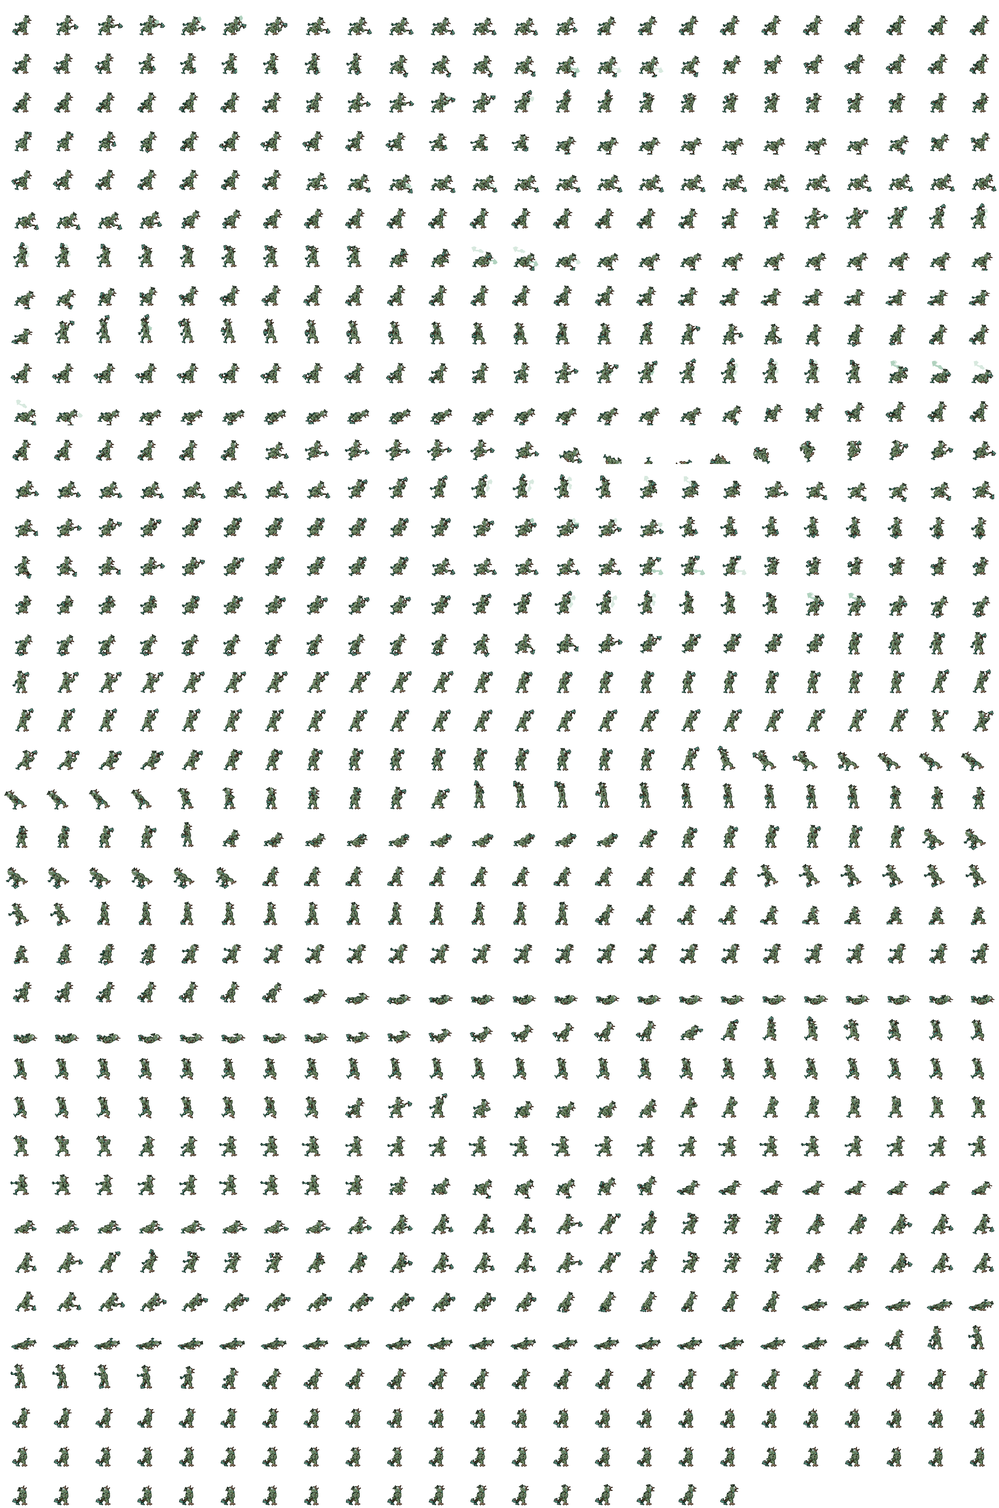
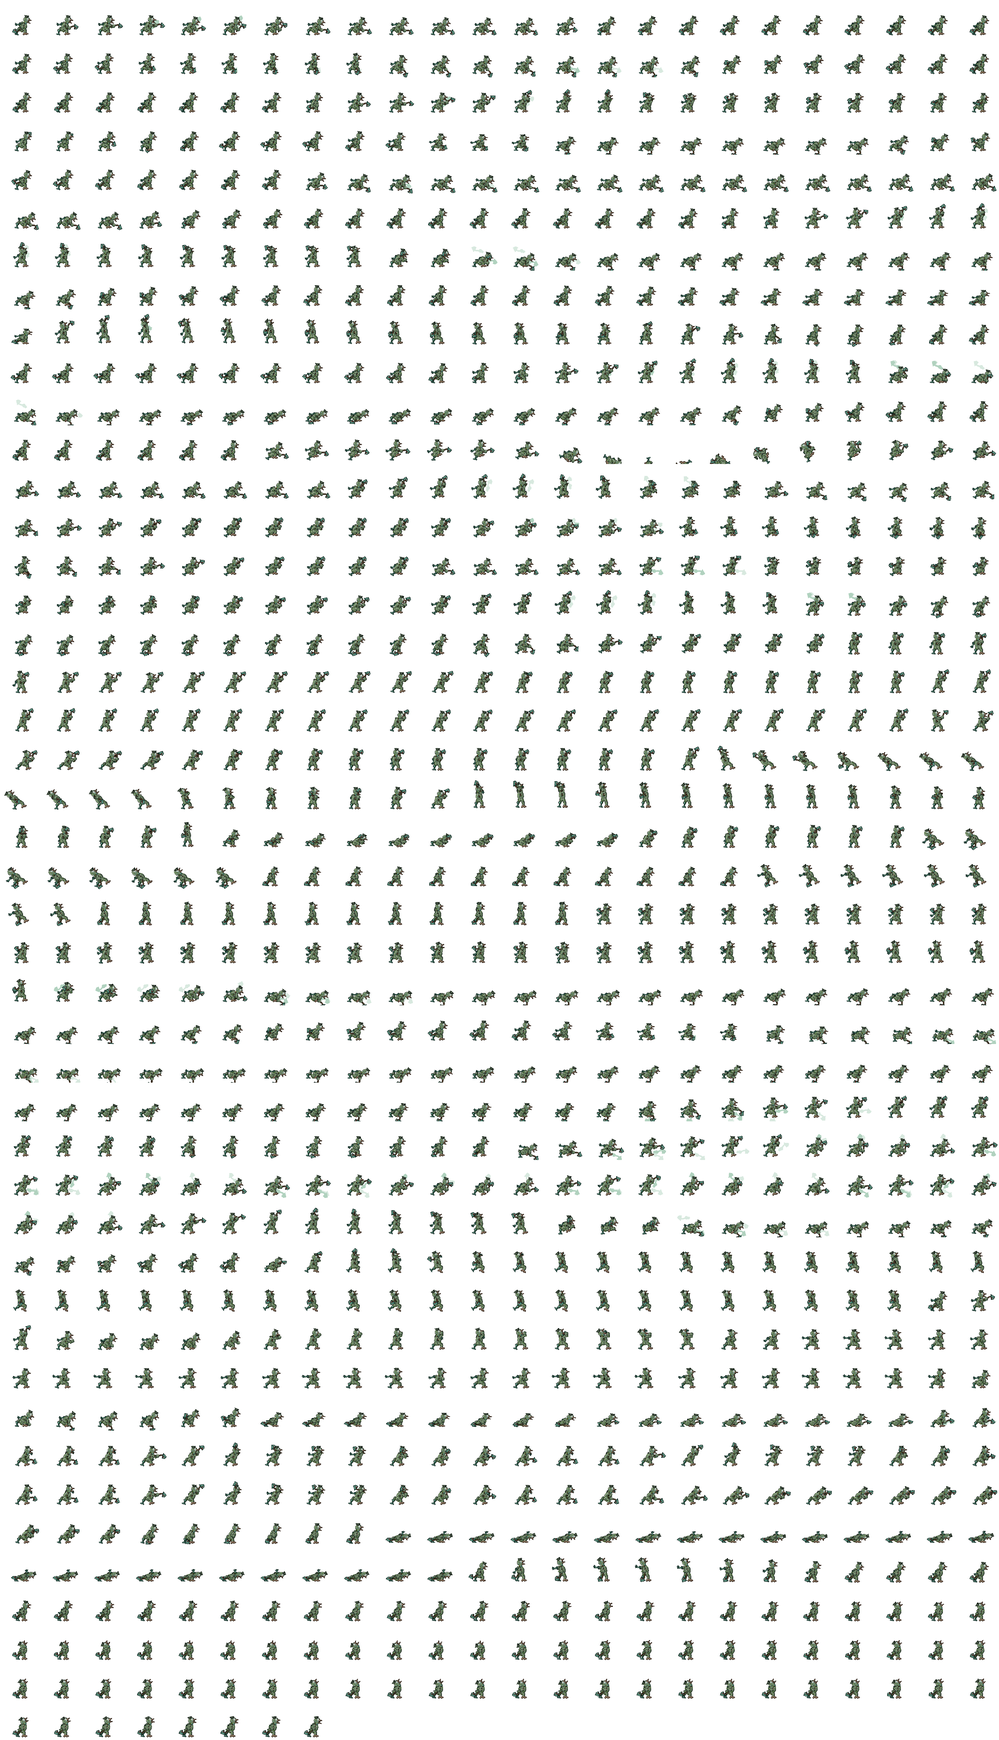
SEEN's side special is a LUNGE (miss: axe stuck, long end lag; hit: a flurry of axe chops) and its neutral special is a charged HEAVY SWING it can slowly walk with
Claude-Session: https://claude.ai/code/session_01QrPMowW61BtpNneRMoKnVz

Changed region(s): [[0.0, 0.0, 1.0, 1.0]]

diff --git a/src/fighters/fighterLastSeen.js b/src/fighters/fighterLastSeen.js
@@ -2,6 +2,7 @@
 // two Limits (I SEE IT TOO, DO NOT APPROACH) and SEEN's look. Mixed into the Fighter class (Fighter.js) - `this` is
 // the fighter. Tuning: lastSeen.js.
 import { sfx } from '../audio/sfx.js';
+import { newAttackId } from './attackIds.js';
 import { skinSheets } from './skins.js';
 import { drawPoster } from './entities.js';
 
@@ -150,6 +151,59 @@ export class FighterLastSeen {
     if (this.anim % 47 === 0) m.particles.push({ shape: 'pixel2', x: this.x + (R() - 0.5) * 20, y: this.y - 30 - R() * 20, vx: (R() - 0.5), vy: 0.4, life: 40, color: S.tuft || 0xd8c070, grav: 0.03, drag: 0.98 });   // a tuft of fur falling off
     if (Math.abs(this.vx) > 2.5 && this.anim % 2 === 0) m.particles.push({ shape: 'smoke', x: this.x - Math.sign(this.vx) * 6, y: this.y - 14 - R() * 20, vx: 0, vy: 0, life: 16, maxLife: 16, r: 4, color: S.smoke || 0x141216, grav: 0 });
   }
+  // ---- HEAVY SWING (SEEN's neutral special): charge the axe up behind its head - it can shuffle along, very slowly -
+  // then let go for one huge chop; the longer the charge, the harder and further it hits (tuning: lastSeen.js)
+  startAxeCharge() { this.setState('axecharge'); this.axeCharged = 0; sfx('whoosh', 0.5, 0.5); }
+  st_axecharge(c) {
+    const nb = this.def.moves.neutralB, C = nb.axeCharge, m = this.match, R = Math.random;
+    this.axeCharged = Math.min(C.max, this.axeCharged + 1);
+    const k = this.axeCharged / C.max, full = k >= 1;
+    // (on the ground it shuffles along slowly: Fighter.physics); in the air it drifts a little and hangs
+    if (!this.grounded) { this.vx += c.x * 0.08; this.vx = Math.max(-C.walk * 1.5, Math.min(C.walk * 1.5, this.vx)); this.vy = Math.min(this.vy, 2); }
+    if (this.axeCharged === C.max && this.t === C.max) { sfx('limitready', 0.6, 0.8); sfx('clang', 0.5, 0.5); m.shake(3, 6); }
+    const tx = this.x + this.facing * C.tip[0], ty = this.y + C.tip[1];
+    if (R() < 0.2 + k * 0.6) m.particles.push({ shape: 'drop', x: tx + (R() - 0.5) * 8, y: ty + 4, vx: (R() - 0.5) * 0.6, vy: 0.5, life: 24, color: R() < 0.5 ? 0xb01010 : 0x7a0808, grav: 0.2 });   // blood running off the blade
+    if (full && this.t % 4 === 0) m.particles.push({ shape: 'pixel2', x: tx + (R() - 0.5) * 16, y: ty + (R() - 0.5) * 16, vx: 0, vy: -0.4, life: 12, color: R() < 0.5 ? 0xff3a2a : 0xffffff, grav: 0 });
+    if (this.t % (full ? 8 : 18) === 0) sfx('buzz', 0.12 + 0.2 * k, 0.6 + k * 0.6);
+    const release = (!c.held('special') && this.t > 2) || this.t >= C.hold || (this.isCpu && this.t >= (this.cpuChargeTarget || 40));
+    if (!release) return;
+    const lerp = (a, b) => (b === undefined ? a : a + (b - a) * k);
+    this.move = { ...nb, hits: nb.hits.map((h) => ({ ...h, dmg: Math.round(lerp(h.dmg, h.maxDmg)), base: lerp(h.base, h.maxBase), growth: lerp(h.growth, h.maxGrowth), full })) };
+    this.moveName = 'neutralB'; this.attackId = newAttackId(); this.hitList = new Set();
+    this.setState('attack'); this.vx *= 0.3;
+    sfx('whoosh', 0.9, 0.6 - 0.15 * k); if (full) sfx('bighit', 0.4, 0.5);
+    if (full) m.popText(this, 'FULL SWING', '#ff3a2a');
+  }
+  // the glow on the axe head while it charges
+  drawAxeCharge(g) {
+    const C = this.def.moves.neutralB.axeCharge, k = this.axeCharged / C.max, full = k >= 1;
+    const tx = this.x + this.facing * C.tip[0], ty = this.y + C.tip[1], pulse = full && this.anim % 6 < 3 ? 3 : 0;
+    g.fillStyle(0xff1a1a, 0.15 + 0.25 * k); g.fillCircle(tx, ty, 4 + 9 * k + pulse);
+    g.fillStyle(0xffffff, 0.5 + 0.4 * k); g.fillCircle(tx, ty, 1 + 2 * k);
+  }
+
+  // ---- LUNGE (SEEN's side special) hit someone: the FLURRY - it holds them in front of it and chops, and chops,
+  // and one last big swing sends them flying
+  startFlurry(t) {
+    if (this.state === 'flurry') return;
+    this.flurryOn = t; this.setState('flurry'); this.vx = this.vy = this.lx = this.ly = 0;
+    sfx('bighit', 0.5, 0.7); this.match.shake(4, 6);
+  }
+  st_flurry() {
+    const F = this.def.moves.sideB.flurry, t = this.flurryOn, m = this.match;
+    if (!F || !t || !t.alive || t.state === 'respawn') { this.flurryOn = null; this.setState(this.grounded ? 'idle' : 'air'); return; }
+    this.vx = 0; this.vy = this.grounded ? 0 : Math.min(this.vy + 0.1, 1);
+    if (this.t < F.finishAt) {                                        // hold them right in front of it
+      t.x = this.x + this.facing * F.gap; t.y = this.y; t.vx = t.vy = t.lx = t.ly = 0;
+      if (t.state !== 'hitstun' && t.state !== 'shield') t.setState('hitstun');   // no wriggling out between the chops
+      t.hitstun = Math.max(t.hitstun || 0, 8);
+    }
+    const hit = (h, id) => m.applyHit(t, { h, owner: this, facing: this.facing, id: 'flurry' + this.slot + ':' + id + ':' + this.age, pillar: true }, this.x);
+    if (F.chops.includes(this.t)) { hit(F.chop, this.t); sfx('slash', 0.5, 0.8 + 0.05 * F.chops.indexOf(this.t)); m.shake(2, 3); }
+    if (this.t === F.finishAt) { hit(F.finish, 'fin'); sfx('bighit', 0.8, 0.6); m.shake(8, 8); this.flurryOn = null; }
+    if (this.t >= F.frames) { this.flurryOn = null; this.setState(this.grounded ? 'idle' : 'air'); }
+  }
+
   // ---- SCREAM (SEEN's down special, tuning in lastSeen.js): the axe goes into the floor, the jaw is wrenched
   // open, and it screams - blood spraying out, everyone near it SHAKEN; finish the scream and it's in a FRENZY
   screamStep(S) {
@@ -208,6 +262,7 @@ export class FighterLastSeen {
   }
   drawSeen(g, spr) {
     this.drawThrownAxe(spr);
+    if (this.state === 'axecharge') this.drawAxeCharge(g);
     if (this.frenzy > 0) {                                             // FRENZY: a red pulse round it, blood steaming off it
       const pulse = 0.12 + 0.08 * Math.sin(this.anim * 0.3), mid = this.y - this.def.body.h * 0.5;
       this.fxBack.fillStyle(0xff1a1a, pulse); this.fxBack.fillEllipse(this.x, mid, this.def.body.w * 2.6, this.def.body.h * 1.5);

diff --git a/src/fighters/lastSeen.js b/src/fighters/lastSeen.js
@@ -123,15 +123,28 @@ export const SEEN = {
   moves: {
     ...DEFAULT_GRAB,
     ...Object.fromEntries(NORMALS.map((n) => [n, wrongMove(LAST_SEEN.moves[n])])),
-    // WAIL (neutral): a scream that hits everything around her
-    neutralB: { frames: 40, fx: 'up', hits: [{ from: 14, to: 20, box: [-62, -84, 124, 90], dmg: 14, angle: 60, base: 4.6, growth: 5.2 }] },
-    // SKITTER (side): a fast, low crawl that rakes them over and over - once per jump
-    sideB: { frames: 34, landLag: 8, multi: true, dive: { from: 5, to: 22, vx: 9.4, vy: -0.6 }, hits: [
-      { from: 6, to: 7, box: [-4, -30, 46, 30], dmg: 3, angle: 30, base: 1.6, growth: 0, stun: 10 },
-      { from: 11, to: 12, box: [-4, -30, 46, 30], dmg: 3, angle: 30, base: 1.6, growth: 0, stun: 10 },
-      { from: 16, to: 17, box: [-4, -30, 46, 30], dmg: 3, angle: 30, base: 1.6, growth: 0, stun: 10 },
-      { from: 21, to: 24, box: [-4, -34, 50, 34], dmg: 8, angle: 40, base: 4.2, growth: 5.0 },
+    // HEAVY SWING (neutral): hold special to haul the axe up behind its head and charge it - it can still shuffle
+    // along while it charges, very slowly - then let go for one enormous chop. Damage and launch grow with the charge.
+    neutralB: { frames: 46, axeCharge: {
+      max: 120,                                       // frames to a full charge (2 s); it swings by itself at 'hold'
+      hold: 210,
+      walk: 0.9,                                      // walking speed while charging (it normally walks at 3.6)
+      tip: [-10, -76],                                // where the axe head is in the wind-up (for the glow)
+    }, hits: [
+      // dmg/base/growth at no charge -> maxDmg/maxBase/maxGrowth at full
+      { from: 15, to: 20, box: [-6, -74, 66, 76], dmg: 9, maxDmg: 26, angle: 48, base: 3.0, maxBase: 7.6, growth: 4.0, maxGrowth: 7.0 },
     ] },
+    // LUNGE (side): a lunging chop. MISS and the axe buries itself in the floor - it has to wrench it back out (a lot
+    // of end lag). HIT and it's a FLURRY: five quick chops and one big swing that sends them flying (3 x 5 + 10 = 25%).
+    // (on the ground it lunges along the floor; in the air it just swings - and landing mid-move costs 40 frames)
+    sideB: { frames: 72, landLag: 40, slide: { from: 6, to: 15, vx: 8.2, dust: 0x5a5248 }, hits: [
+      { from: 9, to: 15, box: [0, -44, 56, 44], dmg: 4, angle: 30, base: 2.0, growth: 0, stun: 30 },
+    ], flurry: {
+      frames: 66,                                     // the whole flurry (its animation)
+      chops: [10, 17, 24, 31, 38], chop: { dmg: 3, angle: 60, base: 1.0, growth: 0, stun: 22 },
+      finishAt: 51, finish: { dmg: 10, angle: 38, base: 5.6, growth: 6.4 },
+      gap: 26,                                        // how far in front of it they're held
+    } },
     // CLIMB (up): claws its way up the air itself
     upb: { frames: 40, riseAt: 6, riseV: -15.5, pushX: 2.0, drift: 3.8, hits: [
       { from: 6, to: 8, box: [-22, -70, 44, 40], dmg: 3, angle: 85, base: 1.8, growth: 0, stun: 10 },

diff --git a/src/ai/cpu.js b/src/ai/cpu.js
@@ -22,6 +22,7 @@ export class CpuController extends Controller {
     if (me.state === 'holding') return this.throwPlan(me);
     if (me.state === 'respawn') { if (Math.random() < 0.03) this.x = Math.random() < 0.5 ? -1 : 1; return; }
     if (me.state === 'charge' || me.state === 'swingcharge') { this.cur.special = true; return; }
+    if (me.state === 'axecharge') { this.cur.special = true; const t = this.pickTarget(me); this.x = t && Math.abs(t.x - me.x) > 50 ? Math.sign(t.x - me.x) : 0; return; }   // SEEN: lumbers toward them while it charges
     this.holdSpecial = false;
     if (me.possessed > 0) { if (Math.random() < this.lv.mash) this.tap(['attack', 'jump', 'special', 'shield'][Math.floor(Math.random() * 4)]); return; }
     if (this.dodgeLimit(me)) return;
@@ -89,7 +90,7 @@ export class CpuController extends Controller {
       this.y = 1; this.tap('special'); return;
     }
     // Lacy's Grand Slam: a charged home-run swing up close
-    if (M.neutralB && M.neutralB.charge && adx < 64 && Math.abs(dy) < 40 && me.grounded && Math.random() < 0.06 * L.aggression) {
+    if (M.neutralB && (M.neutralB.charge || M.neutralB.axeCharge) && adx < (M.neutralB.axeCharge ? 120 : 64) && Math.abs(dy) < 40 && me.grounded && Math.random() < 0.06 * L.aggression) {
       if (me.facing !== Math.sign(dx)) { this.x = Math.sign(dx); return; }
       this.tap('special'); this.holdSpecial = true;
       me.cpuChargeTarget = 8 + Math.floor(Math.random() * (Math.random() < 0.2 ? 170 : 50));   // usually quick, sometimes a big wind-up
@@ -118,7 +119,7 @@ export class CpuController extends Controller {
         me.cpuChargeTarget = 10 + Math.floor(Math.random() * (adx > 260 ? 74 : 30));
       } else if (M.sideB && !(M.sideB.hits || []).some((h) => h.possess) && (Math.random() < 0.35 || me.facing !== Math.sign(dx))) {
         this.x = Math.sign(dx); this.tap('special');               // Drifting Soul
-      } else if (!(M.neutralB && M.neutralB.charge)) {
+      } else if (!(M.neutralB && (M.neutralB.charge || M.neutralB.axeCharge))) {
         this.tap('special');                                       // Wake: Void Orb
       }
       return;

diff --git a/src/fighters/Fighter.js b/src/fighters/Fighter.js
@@ -233,7 +233,7 @@ export class Fighter {
       if (c.down) { if (M.summon) this.startSummon(); else if (M.counter) this.startCounter(); else if (M.downB && M.downB.door && this.wrongDoor()) this.startDoorWalk(); else if (M.downB) this.startAttack('downB'); return true; }
       if (c.up) { if (this.usedUpB) return false; this.startUpB(c); return true; }
       if (Math.abs(c.x) > 0.5) { this.facing = Math.sign(c.x); if (M.sideB && M.sideB.sword) { if (!this.swordOut) this.startSwordThrow(); return !this.swordOut || this.state === 'swordthrow'; } if (M.sideB) { if (((M.sideB.dive || M.sideB.noclip) && this.usedDive) || (M.sideB.fish && this.fishOut) || (M.sideB.mic && this.micOut)) return false; if (this.wowMode) this.startModeSide(); else this.startAttack('sideB'); return true; } }
-      if (M.fireball) this.startCharge(); else if (M.neutralB && M.neutralB.charge) this.startSwingCharge(); else if (M.neutralB) this.startAttack('neutralB');
+      if (M.fireball) this.startCharge(); else if (M.neutralB && M.neutralB.charge) this.startSwingCharge(); else if (M.neutralB && M.neutralB.axeCharge) this.startAxeCharge(); else if (M.neutralB) this.startAttack('neutralB');
       return true;
     }
     if (this.buffer.grab && ground) { this.buffer.grab = 0; this.startAttack('grab'); return true; }
@@ -411,11 +411,11 @@ export class Fighter {
     if (this.dropTimer > 0) this.dropTimer--;
 
     const canSteerAir = ['air', 'helpless', 'attack', 'charge', 'summon'].includes(s) && !this.grounded;
-    const groundMove = this.grounded && (s === 'run');
+    const groundMove = this.grounded && (s === 'run' || s === 'axecharge');   // (SEEN can shuffle along, slowly, while it charges)
 
     if (this.grounded) {
       if (groundMove) {
-        const target = c.x * d.walkSpeed * this.speedMult;
+        const target = c.x * (s === 'axecharge' ? d.moves.neutralB.axeCharge.walk : d.walkSpeed) * this.speedMult;
         this.vx += Math.sign(target - this.vx) * Math.min(Math.abs(target - this.vx), d.runAccel);
       } else if (s !== 'roll') {
         this.vx -= Math.sign(this.vx) * Math.min(Math.abs(this.vx), d.groundFriction);

diff --git a/src/scenes/MatchScene.js b/src/scenes/MatchScene.js
@@ -314,7 +314,8 @@ export class MatchScene extends Phaser.Scene {
     const dmg = Math.max(1, Math.round((h.dmg || 0) * (owner ? owner.dmgMult : 1) * t.dmgTakenMult * (beat ? beat.dmg : 1)));
     if (beat) owner.beatLanded(t, hb);
     if (owner && !hb.projectile && owner.state === 'attack' && owner.move && owner.move.dive && owner.move.dive.bounce) owner.diveBounce = true;
-    if (owner && !hb.projectile && owner.state === 'attack' && owner.move && owner.move.cling && t.alive) owner.startCling(t);   // LAST SEEN: she clings on   // NU's Stage Dive: bounce off them
+    if (owner && !hb.projectile && owner.state === 'attack' && owner.move && owner.move.cling && t.alive) owner.startCling(t);
+    if (owner && !hb.projectile && owner.state === 'attack' && owner.move && owner.move.flurry && t.alive) owner.startFlurry(t);   // SEEN's LUNGE hit: the flurry   // LAST SEEN: she clings on   // NU's Stage Dive: bounce off them
     let kbPct;
     if (this.mode === 'stamina') { t.hp -= dmg; kbPct = 40 + 50 * (1 - Math.max(0, t.hp) / t.maxHp); }
     else { t.percent = Math.min(999, t.percent + dmg); kbPct = t.percent; }

diff --git a/src/fighters/roster.js b/src/fighters/roster.js
@@ -37,7 +37,7 @@ export const TEST_ROSTER = [
   { id: 'last-seen', name: 'LAST SEEN', def: LAST_SEEN, tag: 'PROTOTYPE 04',
     notes: 'SHE WENT MISSING. SOMETHING CAME BACK.\nSTARTS FRAIL: LIGHT, WEAK, EASY TO LAUNCH.\n\n'
       + 'SIGHTINGS (THE EYES OVER HER HEAD) FILL AS SHE\nDEALS AND TAKES DAMAGE. ALL OPEN: SHE TURNS\nINTO SEEN UNTIL KO - HEAVY, FAST, BRUTAL.\n\n'
-      + 'K      FLYER / WAIL\nSIDE K PLEASE HELP ME (CLING ON) / SKITTER\nUP K   JUMP / CLIMB\nDOWN K HIDE / DRAG\n\n'
+      + 'K      FLYER / HEAVY SWING (HOLD, CHARGE)\nSIDE K PLEASE HELP ME (CLING ON) / LUNGE (FLURRY)\nUP K   JUMP / CLIMB\nDOWN K HIDE / SCREAM\n\n'
       + 'LIMIT  I SEE IT TOO - TURN NOW\n       DO NOT APPROACH (AS SEEN) - 55%' },
 ];
 

diff --git a/src/fighters/lsWrongMoves.js b/src/fighters/lsWrongMoves.js
@@ -25,11 +25,14 @@ export const LS_WRONG_MOVES = {
    "shield": [534, 12, 2, 1],
    "grabbed": [546, 8, 2, 1],
    "ledge": [554, 12, 2, 1],
-   "neutralB": [566, 40, 1],
-   "sideB": [606, 34, 1],
-   "upb": [640, 40, 1],
-   "downB": [680, 56, 2],
-   "limit": [736, 75, 2],
-   "turning": [811, 35, 2],
-   "taunt": [846, 84, 1],
+   "axecharge": [566, 12, 2, 1],
+   "axecharge_walk": [578, 12, 4, 1],
+   "neutralB": [590, 46, 1],
+   "sideB": [636, 72, 1],
+   "flurry": [708, 66, 1],
+   "upb": [774, 40, 1],
+   "downB": [814, 56, 2],
+   "limit": [870, 75, 2],
+   "turning": [945, 35, 2],
+   "taunt": [980, 84, 1],
 };

diff --git a/src/fighters/fighterRender.js b/src/fighters/fighterRender.js
@@ -115,7 +115,7 @@ export class FighterRender {
   moveAnimKey(s) {
     const A = this.def.moveAnims;
     const k = s === 'attack' ? (this.moveName === 'throw' ? 'throw_' + this.throwDir : this.moveName)
-      : s === 'dizzy' ? 'hitstun' : s === 'seized' ? 'grabbed' : s;
+      : s === 'dizzy' ? 'hitstun' : s === 'seized' ? 'grabbed' : s === 'axecharge' && Math.abs(this.vx) > 0.3 && A.axecharge_walk ? 'axecharge_walk' : s;
     return A[k] ? k : null;
   }
 

diff --git a/tools/sprites/last_seen_moves.py b/tools/sprites/last_seen_moves.py
@@ -167,12 +167,36 @@ ATK = {
 for name, (ticks, keys) in ATK.items():
     mv(WRONG, name, ticks, keys, smear=('ffore', 'ffist', 'axe'))
 
-WAIL = P(torso=(22, 3, 1), head=(-34, 2, 0), hair=(30, 0, 0), fupper=(70, 0, 0), ffore=(20, 0, 0), bupper=(70, 0, 0), bfore=(20, 0, 0), root=(0, 3, 0, 1.06, 0.95), **STANCE)
-mv(WRONG, 'neutralB', 40, [k(0, P(torso=(30, 2, 2), head=(-24, 0, 0))), k(10, P(torso=(-10, -1, -1), head=(30, 0, 0), fupper=(-120, 0, 0), bupper=(-120, 0, 0), **DEEP), 'out'),
-                           k(14, WAIL, 'snap'), k(30, mix(WAIL, head=(-40, 2, 0)), 'linear'), k(40, P(torso=(30, 2, 2), head=(-24, 0, 0)), 'inout')])
-SKIT = P(torso=(84, 4, 8), head=(-76, 0, 0), hair=(-30, 0, 0), fupper=(-10, 0, 0), ffore=(-20, 0, 0), bupper=(10, 0, 0), bfore=(-10, 0, 0), root=(0, 0, 8, 1.12, 0.84), **legs(80, -100, 50, -90, 20, 10))
-mv(WRONG, 'sideB', 34, [k(0, P(torso=(30, 2, 2))), k(5, SKIT, 'snap'), k(12, mix(SKIT, fupper=(40, 0, 0), bupper=(-30, 0, 0)), 'linear'), k(18, mix(SKIT, fupper=(-30, 0, 0), bupper=(40, 0, 0)), 'linear'),
-                        k(24, mix(SKIT, fupper=(40, 0, 0), bupper=(-30, 0, 0)), 'linear'), k(34, P(torso=(30, 2, 2), head=(-24, 0, 0)), 'inout')])
+# ---- CHARGE (neutral special): the axe hauled up behind its head, trembling, building - it can shuffle along
+# slowly while it charges - then one enormous chop down into the floor
+WIND = AX(-170, 40, 0, head=(-30, 0, 0), torso=(18, 1, 1))                        # the axe wound back over its head
+def wind(s, **kw): return mix(WIND, fupper=(-170 - 4 * s, 0, 0), ffist=(3 * s, 0, 0), torso=(18 + s, 1, 1), head=(-30 + 3 * s, 0, 0), **kw)
+mv(WRONG, 'axecharge', 24, [k(0, wind(0)), k(6, wind(1), 'inout'), k(12, wind(0), 'inout'), k(18, wind(-1), 'inout'), k(24, wind(0), 'inout')], step=2, loop=True)
+def shuffle(b, f, sh, dip, s):                                                     # a slow, heavy step with the axe still up
+    return wind(s, root=(0, 0, dip), **legs(26 + b[0], -30 + b[1], -26 + f[0], 30 + f[1], 8 + sh[0], -8 + sh[1]))
+mv(WRONG, 'axecharge_walk', 48, [k(0, shuffle((-12, 6), (-10, 4), (0, -4), 0, 0)), k(12, shuffle((-4, 20), (10, -4), (-6, 0), -1, 1), 'inout'),
+                                  k(24, shuffle((10, -6), (-18, 14), (4, -6), 1, 0), 'inout'), k(36, shuffle((4, -4), (2, 20), (0, -8), -1, -1), 'inout'),
+                                  k(48, shuffle((-12, 6), (-10, 4), (0, -4), 0, 0), 'inout')], step=4, loop=True)
+mv(WRONG, 'neutralB', 46, [k(0, WIND), k(10, mix(WIND, fupper=(-185, 0, 0), torso=(8, 0, 0), head=(-36, 0, -1), root=(0, -1, -1, 0.96, 1.05)), 'out'),
+                           k(15, mix(CHOP, torso=(46, 5, 4)), 'snap'), k(19, mix(FLOOR, torso=(54, 5, 7), root=(0, 0, 1, 1.1, 0.86)), 'snap'),
+                           k(34, mix(FLOOR, torso=(50, 5, 7), head=(-20, 2, 1)), 'inout'), k(46, LOW, 'inout')], smear=('ffore', 'ffist', 'axe'))
+# ---- LUNGE (side special): a desperate lunging chop. On a miss the axe buries itself in the floor and it has to
+# wrench it back out (long end lag)...
+LUNGE = mix(CHOP, torso=(58, 6, 4), head=(-20, 2, 0), root=(0, 2, 2, 1.06, 0.92), **legs(-30, 20, -60, 40, 0, -10))
+STUCK = mix(FLOOR, torso=(60, 5, 8), head=(-14, 2, 1), **legs(40, -60, -40, 56, 14, -14))
+def tug(s): return mix(STUCK, torso=(54 - 6 * s, 4, 7), head=(-22 - 8 * s, 1, 1), fupper=(14 + 8 * s, 0, 0), root=(0, -s, 0, 1.08, 0.88))
+mv(WRONG, 'sideB', 72, [k(0, LOW), k(5, mix(BEHIND, **DEEP), 'out'), k(9, LUNGE, 'snap'), k(16, STUCK, 'snap'),
+                        k(26, tug(0), 'inout'), k(32, tug(1), 'snap'), k(38, tug(0), 'inout'), k(44, tug(1), 'snap'), k(50, tug(2), 'snap'),
+                        k(56, mix(RAISED, torso=(20, 0, 0)), 'out'), k(72, LOW, 'inout')], smear=('ffore', 'ffist', 'axe'))
+# ...but on a hit it's a flurry: chop after chop, then one big swing that sends them flying
+def chop(s): return mix(CHOP, torso=(40 + 6 * s, 4, 3), head=(-16 - 4 * s, 2, 0), fupper=(-20 + 10 * s, 0, 0), **STANCE)
+def lift(s): return mix(RAISED, torso=(22, 1, 1), head=(-26, 0, 0), fupper=(-90 - 30 * s, 0, 0), **STANCE)
+FLURRY_KEYS = [k(0, LUNGE)]
+for i, at in enumerate((10, 17, 24, 31, 38)):                                       # the chops land on these frames
+    FLURRY_KEYS += [k(at - 4, lift(i % 2), 'out'), k(at, chop(i % 2), 'snap')]
+FLURRY_KEYS += [k(44, mix(HIGH, **STANCE), 'out'), k(48, mix(HIGH, fupper=(-170, 0, 0), torso=(4, 0, 0), **STANCE), 'inout'),
+                k(51, mix(CHOP, torso=(52, 6, 4), **legs(-30, 20, -60, 40, 0, -10)), 'snap'), k(55, mix(FLOOR, torso=(54, 5, 7)), 'snap'), k(66, LOW, 'inout')]
+mv(WRONG, 'flurry', 66, FLURRY_KEYS, smear=('ffore', 'ffist', 'axe'))
 def claw(s): return P(fupper=(-170 + 30 * s, 0, -1), ffore=(-20, 0, 0), bupper=(-140 - 30 * s, 0, -1), bfore=(-20, 0, 0), head=(-30, 0, 0), torso=(-6, 0, 0), **legs(10, 40, -30, 60))
 mv(WRONG, 'upb', 40, [k(0, P(**DEEP, torso=(30, 2, 2)))] + [k(6 + i * 6, claw(i % 2), 'snap') for i in range(5)] + [k(40, mix(claw(0), fupper=(-120, 0, 0)), 'inout')])
 # SCREAM (down special): throws the axe down into the floor, takes its jaw in both hands and wrenches it open -
@@ -207,7 +231,7 @@ def drag_through(M, names):
     for n in names:
         ticks, keys, step, smear, loop, center = M[n]
         M[n] = (ticks, [(t, dragging(pose), e) for (t, pose, e) in keys], step, smear, loop, center)
-drag_through(WRONG, ['hitstun', 'shield', 'grabbed', 'ledge', 'neutralB', 'sideB', 'turning', 'taunt'])
+drag_through(WRONG, ['hitstun', 'shield', 'grabbed', 'ledge', 'turning', 'taunt'])
 # DRAG and the Limit swing it, but start and end dragging it
 for n in ('limit',):
     ticks, keys, step, smear, loop, center = WRONG[n]

diff --git a/CLAUDE.md b/CLAUDE.md
@@ -71,7 +71,9 @@ Owner: Mason (artist; does the sprites and design). Live build: https://kobrabro
   mascot animatronic with her inside carrying a bloody axe (`draw_mascot()`, part `axe`; its own hunched axe attacks `ATK` in last_seen_moves.py;
   def `SEEN`, `wrongDef`: heavy, `takenMult`, normals grown by `AXE`/`wrongMove`) until
   KO'd. SEEN drags the axe behind it (part `axed` = the axe held by the end of the handle, `DRAG_ARM`/`dragging()` in last_seen_moves.py;
-  attacks start/end dragging and switch to part `axe` to swing, via `_hide`); its joints are loose (`LOOSE` follow values, `wrong_life`). SEEN's down-B SCREAM (`downB.scream`, `screamStep` in
+  attacks start/end dragging and switch to part `axe` to swing, via `_hide`); its joints are loose (`LOOSE` follow values, `wrong_life`). SEEN's neutral-B HEAVY SWING (`neutralB.axeCharge`, state `axecharge`:
+  hold to charge, shuffles slowly - `Fighter.physics` - anims `axecharge` / `axecharge_walk`), side-B LUNGE (`sideB.flurry`: on hit state `flurry`,
+  `startFlurry`; on a miss the axe sticks in the floor = long end lag). SEEN's down-B SCREAM (`downB.scream`, `screamStep` in
   fighterLastSeen.js; part `jaw`): axe into the floor (`axe.png` per look), jaw wrenched open, blood; foes near it get `shaken`
   (slower, weaker hits), a full scream gives `frenzy` (10 s) + Limit; it takes more damage throughout. Costumes AFTER HOURS (rave) /
   GRAND OPENING (showtime) / LAKEBED (drowned) / DEEP SEA (angler: an anglerfish) redraw SEEN (`VARIANTS` in last_seen_draw.py, sheets `wrong/<set>/`, `SEEN.costumeSheets`;
